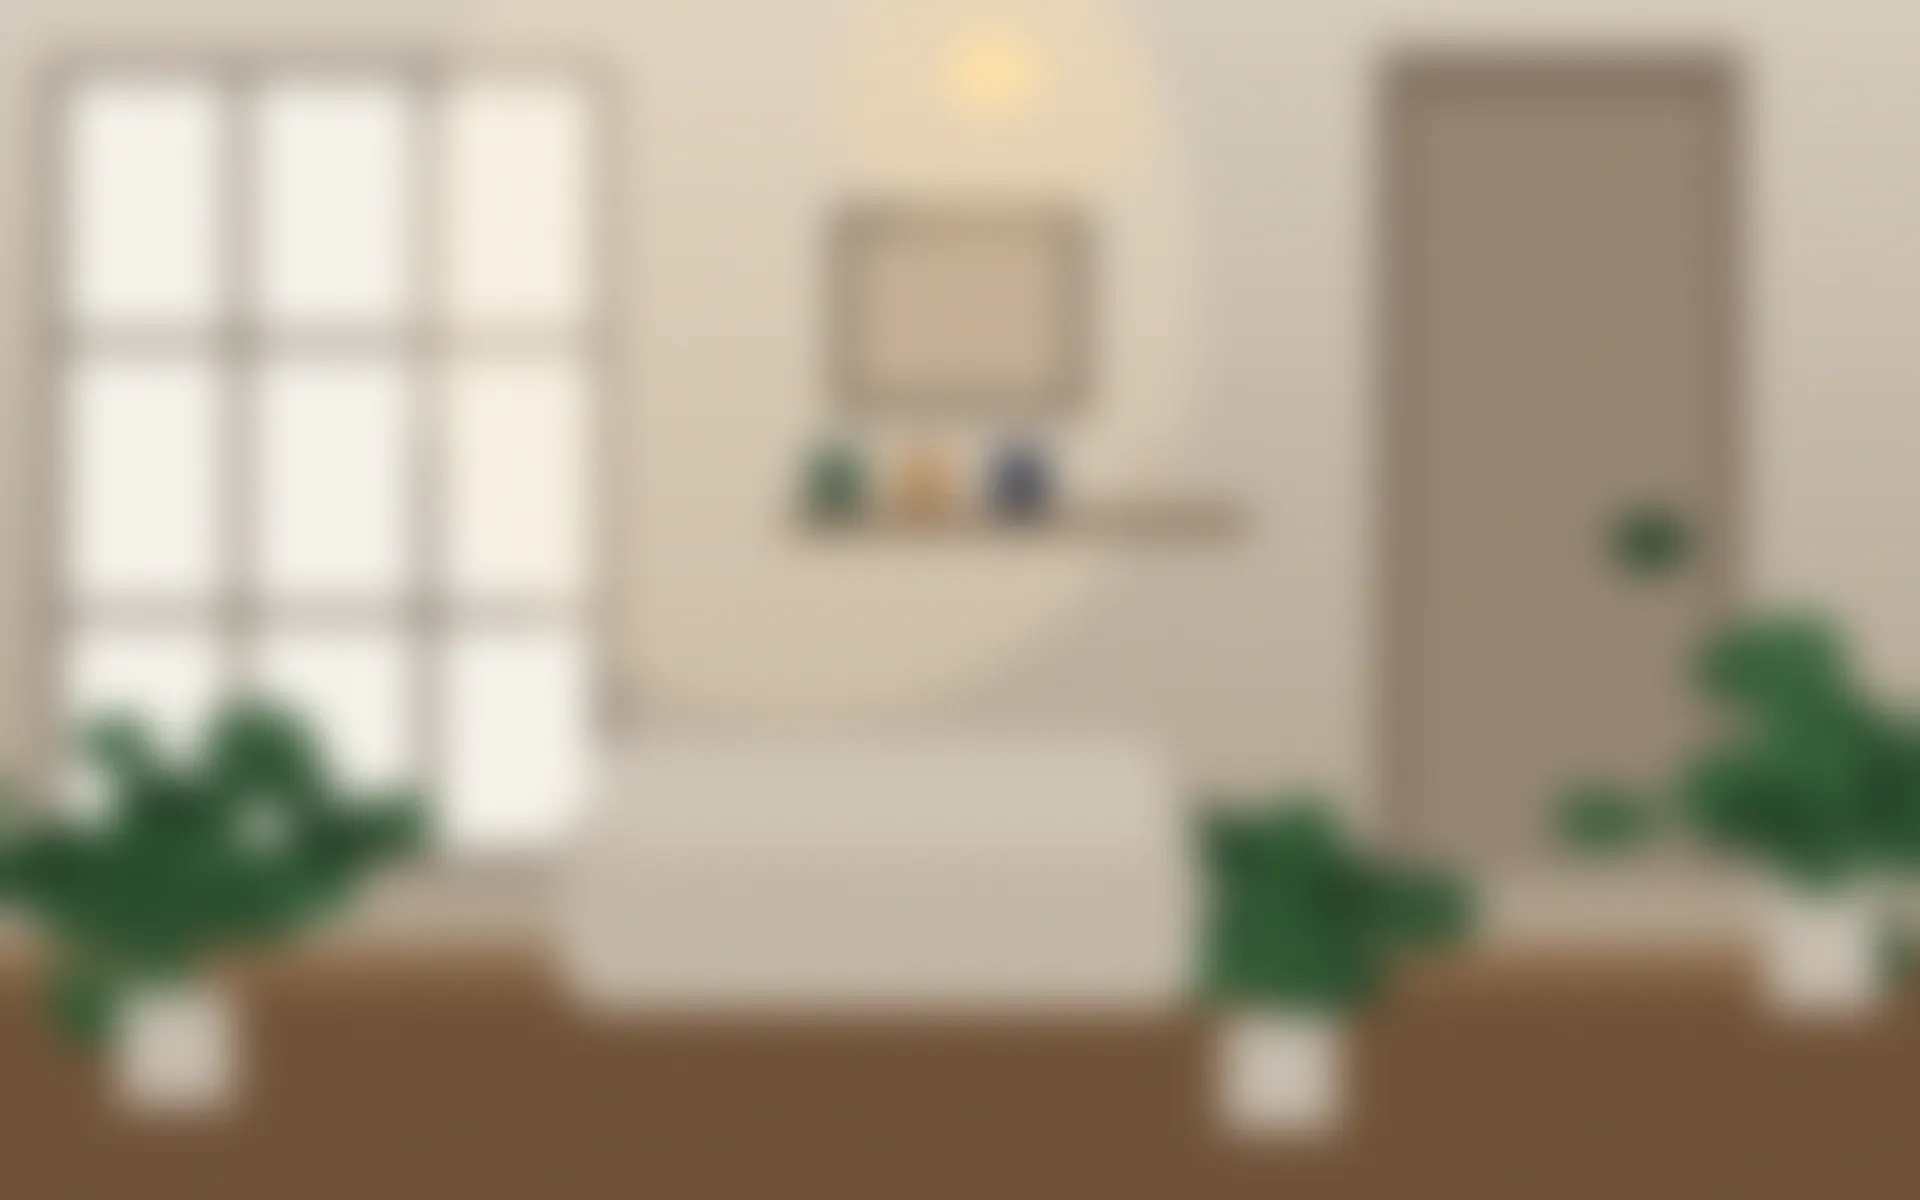
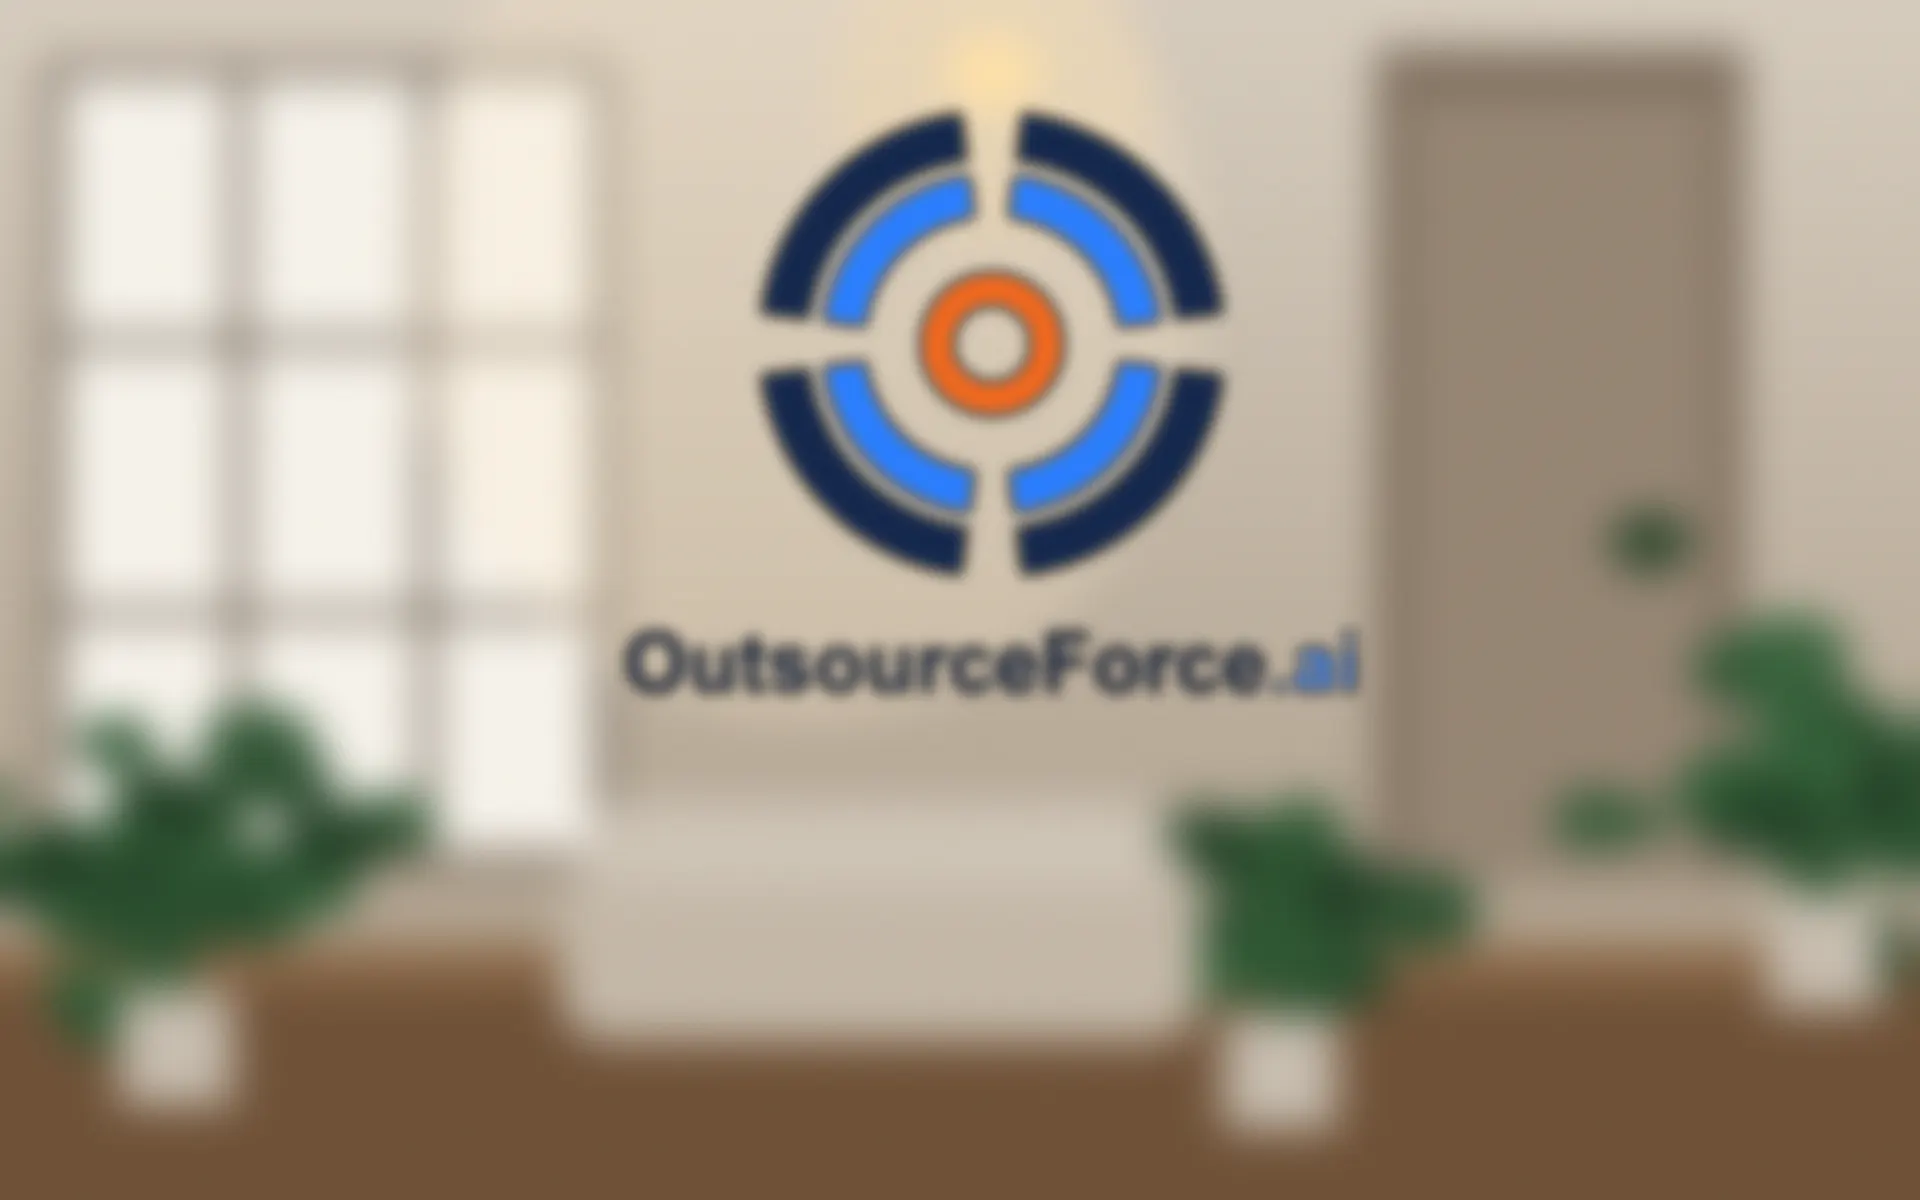
Glass theme: big soft OSF sign on the back wall of the room
The logo and wordmark are painted on the backdrop (blurred less than the room),
and the page panel gets a light blur (on a pseudo-element, so fixed pop-ups
still work) so the sign stays soft behind text.

diff --git a/src/app/globals.css b/src/app/globals.css
@@ -222,9 +222,24 @@ body > * {
 }
 /* The big see-through panel each page sits on (like the video: cards float on a glass sheet) */
 .glass-panel {
+  position: relative;
+  isolation: isolate;
   background-color: var(--glass-panel);
   border: 1px solid var(--glass-border);
   box-shadow: inset 0 1px 0 rgba(255, 255, 255, 0.35), 0 30px 80px -40px rgba(20, 14, 8, 0.45);
+}
+/* A light blur behind the page (the OSF sign stays visible, just soft behind text). It sits on a
+   pseudo-element on purpose: backdrop-filter on the panel itself would trap pop-ups that use
+   position: fixed (client quick view) inside the panel. */
+.glass-panel::before {
+  content: "";
+  position: absolute;
+  inset: 0;
+  z-index: -1;
+  border-radius: inherit;
+  -webkit-backdrop-filter: blur(10px) saturate(130%);
+  backdrop-filter: blur(10px) saturate(130%);
+  pointer-events: none;
 }
 
 /* Popovers, drop-down forms, drawers and the command palette: frosted but nearly solid */
